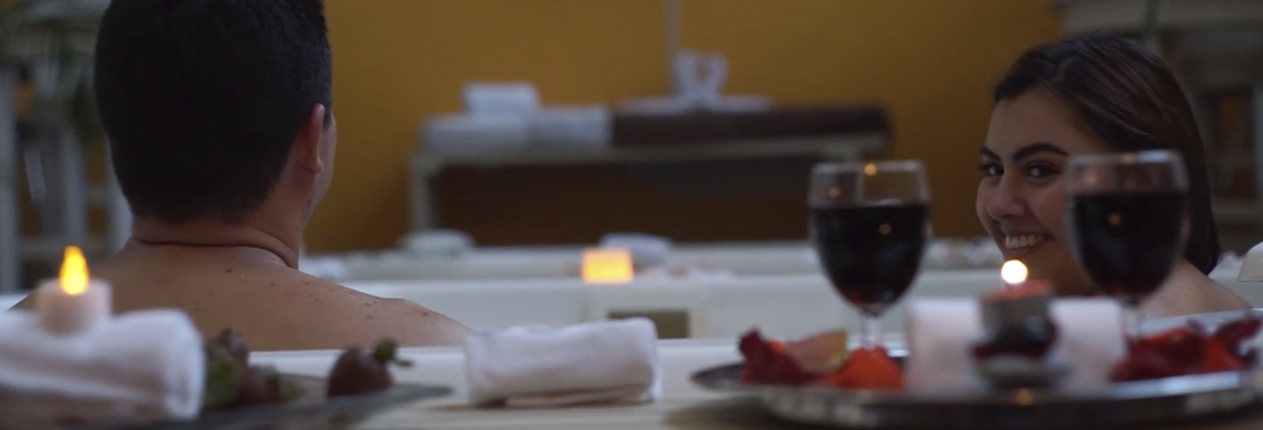
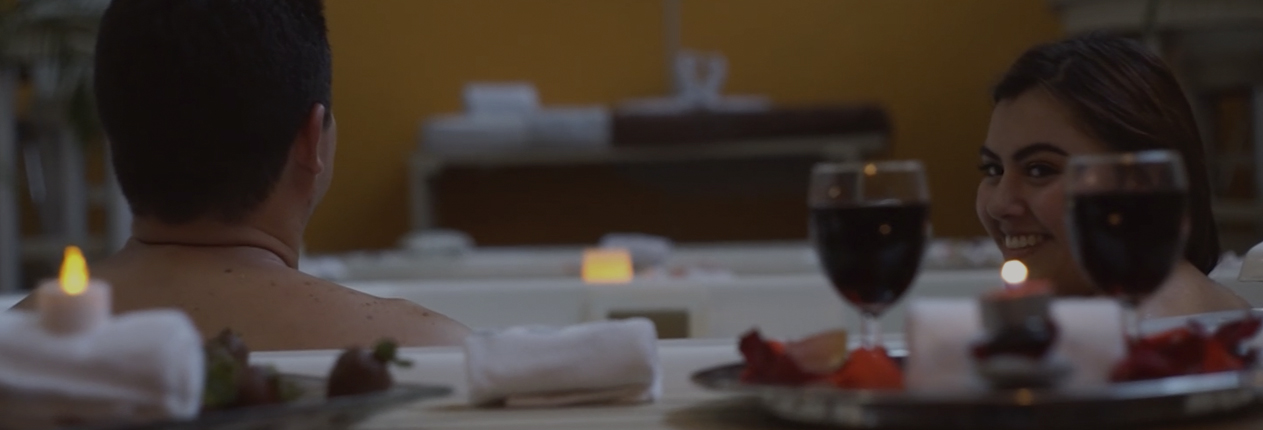
se modificaron los slider

diff --git a/css/settings-dist.css b/css/settings-dist.css
@@ -1,0 +1,4 @@
+.tp-caption.tp-hidden-caption,.tp-hide-revslider{visibility:hidden!important;display:none!important}.tp-caption{z-index:1;white-space:nowrap}.tp-caption-demo .tp-caption{position:relative!important;display:inline-block;margin-bottom:10px;margin-right:20px!important}.tp-caption.whitedivider3px{color:#000000;text-shadow:none;background-color:rgb(255, 255, 255);background-color:rgba(255, 255, 255, 1);text-decoration:none;min-width:408px;min-height:3px;background-position:initial initial;background-repeat:initial initial;border-width:0px;border-color:#000000;border-style:none}.tp-caption.finewide_large_white{color:#ffffff;text-shadow:none;font-size:60px;line-height:60px;font-weight:300;font-family:"Open Sans", sans-serif;background-color:transparent;text-decoration:none;text-transform:uppercase;letter-spacing:8px;border-width:0px;border-color:rgb(0, 0, 0);border-style:none}.tp-caption.whitedivider3px{color:#000000;text-shadow:none;background-color:rgb(255, 255, 255);background-color:rgba(255, 255, 255, 1);text-decoration:none;font-size:0px;line-height:0;min-width:468px;min-height:3px;border-width:0px;border-color:rgb(0, 0, 0);border-style:none}.tp-caption.finewide_medium_white{color:#ffffff;text-shadow:none;font-size:37px;line-height:37px;font-weight:300;font-family:"Open Sans", sans-serif;background-color:transparent;text-decoration:none;text-transform:uppercase;letter-spacing:5px;border-width:0px;border-color:rgb(0, 0, 0);border-style:none}.tp-caption.boldwide_small_white{font-size:25px;line-height:25px;font-weight:800;font-family:"Open Sans", sans-serif;color:rgb(255, 255, 255);text-decoration:none;background-color:transparent;text-shadow:none;text-transform:uppercase;letter-spacing:5px;border-width:0px;border-color:rgb(0, 0, 0);border-style:none}.tp-caption.whitedivider3px_vertical{color:#000000;text-shadow:none;background-color:rgb(255, 255, 255);background-color:rgba(255, 255, 255, 1);text-decoration:none;font-size:0px;line-height:0;min-width:3px;min-height:130px;border-width:0px;border-color:rgb(0, 0, 0);border-style:none}.tp-caption.finewide_small_white{color:#ffffff;text-shadow:none;font-size:25px;line-height:25px;font-weight:300;font-family:"Open Sans", sans-serif;background-color:transparent;text-decoration:none;text-transform:uppercase;letter-spacing:5px;border-width:0px;border-color:rgb(0, 0, 0);border-style:none}.tp-caption.finewide_verysmall_white_mw{font-size:13px;line-height:25px;font-weight:400;font-family:"Open Sans", sans-serif;color:#ffffff;text-decoration:none;background-color:transparent;text-shadow:none;text-transform:uppercase;letter-spacing:5px;max-width:470px;white-space:normal!important;border-width:0px;border-color:rgb(0, 0, 0);border-style:none}.tp-caption.lightgrey_divider{text-decoration:none;background-color:rgb(235, 235, 235);background-color:rgba(235, 235, 235, 1);width:370px;height:3px;background-position:initial initial;background-repeat:initial initial;border-width:0px;border-color:rgb(34, 34, 34);border-style:none}.tp-caption.finewide_large_white{color:#FFF;text-shadow:none;font-size:60px;line-height:60px;font-weight:300;font-family:"Open Sans", sans-serif;background-color:rgba(0, 0, 0, 0);text-decoration:none;text-transform:uppercase;letter-spacing:8px;border-width:0px;border-color:#000;border-style:none}.tp-caption.finewide_medium_white{color:#FFF;text-shadow:none;font-size:34px;line-height:34px;font-weight:300;font-family:"Open Sans", sans-serif;background-color:rgba(0, 0, 0, 0);text-decoration:none;text-transform:uppercase;letter-spacing:5px;border-width:0px;border-color:#000;border-style:none}.tp-caption.huge_red{position:absolute;color:rgb(223,75,107);font-weight:400;font-size:150px;line-height:130px;font-family:'Oswald', sans-serif;margin:0px;border-width:0px;border-style:none;white-space:nowrap;background-color:rgb(45,49,54);padding:0px}.tp-caption.middle_yellow{position:absolute;color:rgb(251,213,114);font-weight:600;font-size:50px;line-height:50px;font-family:'Open Sans', sans-serif;margin:0px;border-width:0px;border-style:none;white-space:nowrap}.tp-caption.huge_thin_yellow{position:absolute;color:rgb(251,213,114);font-weight:300;font-size:90px;line-height:90px;font-family:'Open Sans', sans-serif;margin:0px;letter-spacing:20px;border-width:0px;border-style:none;white-space:nowrap}.tp-caption.big_dark{position:absolute;color:#333;font-weight:700;font-size:70px;line-height:70px;font-family:"Open Sans";margin:0px;border-width:0px;border-style:none;white-space:nowrap}.tp-caption.medium_dark{position:absolute;color:#333;font-weight:300;font-size:40px;line-height:40px;font-family:"Open Sans";margin:0px;letter-spacing:5px;border-width:0px;border-style:none;white-space:nowrap}.tp-caption.medium_grey{position:absolute;color:#fff;text-shadow:0px 2px 5px rgba(0, 0, 0, 0.5);font-weight:700;font-size:20px;line-height:20px;font-family:Arial;padding:2px 4px;margin:0px;border-width:0px;border-style:none;background-color:#888;white-space:nowrap}.tp-caption.small_text{position:absolute;color:#fff;text-shadow:0px 2px 5px rgba(0, 0, 0, 0.5);font-weight:700;font-size:14px;line-height:20px;font-family:Arial;margin:0px;border-width:0px;border-style:none;white-space:nowrap}.tp-caption.medium_text{position:absolute;color:#fff;text-shadow:0px 2px 5px rgba(0, 0, 0, 0.5);font-weight:700;font-size:20px;line-height:20px;font-family:Arial;margin:0px;border-width:0px;border-style:none;white-space:nowrap}.tp-caption.large_bold_white_25{font-size:55px;line-height:65px;font-weight:700;font-family:"Open Sans";color:#fff;text-decoration:none;background-color:transparent;text-align:center;text-shadow:#000 0px 5px 10px;border-width:0px;border-color:rgb(255, 255, 255);border-style:none}.tp-caption.medium_text_shadow{font-size:25px;line-height:25px;font-weight:600;font-family:"Open Sans";color:#fff;text-decoration:none;background-color:transparent;text-align:center;text-shadow:#000 0px 5px 10px;border-width:0px;border-color:rgb(255, 255, 255);border-style:none}.tp-caption.large_text{position:absolute;z-index:999999;color:#fff;text-shadow:0px 2px 5px rgba(0, 0, 0, 0.9);font-weight:bold;font-size:30px;line-height:40px;font-family:'Poppins', sans-serif;margin:0px;border-width:0px;border-style:none;white-space:nowrap}.tp-caption.medium_bold_grey{font-size:30px;line-height:30px;font-weight:800;font-family:"Open Sans";color:rgb(102, 102, 102);text-decoration:none;background-color:transparent;text-shadow:none;margin:0px;padding:1px 4px 0px;border-width:0px;border-color:rgb(255, 214, 88);border-style:none}.tp-caption.very_large_text{position:absolute;color:#fff;text-shadow:0px 2px 5px rgba(0, 0, 0, 0.5);font-weight:700;font-size:60px;line-height:60px;font-family:Arial;margin:0px;border-width:0px;border-style:none;white-space:nowrap;letter-spacing:-2px}.tp-caption.very_big_white{position:absolute;color:#fff;text-shadow:none;font-weight:800;font-size:60px;line-height:60px;font-family:Arial;margin:0px;border-width:0px;border-style:none;white-space:nowrap;padding:0px 4px;padding-top:1px;background-color:#000}.tp-caption.very_big_black{position:absolute;color:#000;text-shadow:none;font-weight:700;font-size:60px;line-height:60px;font-family:Arial;margin:0px;border-width:0px;border-style:none;white-space:nowrap;padding:0px 4px;padding-top:1px;background-color:#fff}.tp-caption.modern_medium_fat{position:absolute;color:#000;text-shadow:none;font-weight:800;font-size:24px;line-height:20px;font-family:"Open Sans", sans-serif;margin:0px;border-width:0px;border-style:none;white-space:nowrap}.tp-caption.modern_medium_fat_white{position:absolute;color:#fff;text-shadow:none;font-weight:800;font-size:24px;line-height:20px;font-family:"Open Sans", sans-serif;margin:0px;border-width:0px;border-style:none;white-space:nowrap}.tp-caption.modern_medium_light{position:absolute;color:#000;text-shadow:none;font-weight:300;font-size:24px;line-height:20px;font-family:"Open Sans", sans-serif;margin:0px;border-width:0px;border-style:none;white-space:nowrap}.tp-caption.modern_big_bluebg{position:absolute;color:#fff;text-shadow:none;font-weight:800;font-size:30px;line-height:36px;font-family:"Open Sans", sans-serif;padding:3px 10px;margin:0px;border-width:0px;border-style:none;background-color:#4e5b6c;letter-spacing:0}.tp-caption.modern_big_redbg{position:absolute;color:#fff;text-shadow:none;font-weight:300;font-size:30px;line-height:36px;font-family:"Open Sans", sans-serif;padding:3px 10px;padding-top:1px;margin:0px;border-width:0px;border-style:none;background-color:#de543e;letter-spacing:0}.tp-caption.modern_small_text_dark{position:absolute;color:#555;text-shadow:none;font-size:14px;line-height:22px;font-family:Arial;margin:0px;border-width:0px;border-style:none;white-space:nowrap}.tp-caption.boxshadow{-moz-box-shadow:0px 0px 20px rgba(0, 0, 0, 0.5);-webkit-box-shadow:0px 0px 20px rgba(0, 0, 0, 0.5);box-shadow:0px 0px 20px rgba(0, 0, 0, 0.5)}.tp-caption.black{color:#000;text-shadow:none}.tp-caption.noshadow{text-shadow:none}.tp-caption a{color:#ff7302;text-shadow:none;-webkit-transition:all 0.2s ease-out;-moz-transition:all 0.2s ease-out;-o-transition:all 0.2s ease-out;-ms-transition:all 0.2s ease-out}.tp-caption a:hover{color:#ffa902}.tp-caption.thinheadline_dark{position:absolute;color:rgba(0,0,0,0.85);text-shadow:none;font-weight:300;font-size:30px;line-height:30px;font-family:"Open Sans";background-color:transparent}.tp-caption.thintext_dark{position:absolute;color:rgba(0,0,0,0.85);text-shadow:none;font-weight:300;font-size:16px;line-height:26px;font-family:"Open Sans";background-color:transparent}.tp-caption.medium_bg_red a{color:#fff;text-decoration:none}.tp-caption.medium_bg_red a:hover{color:#fff;text-decoration:underline}.tp-caption.smoothcircle{font-size:30px;line-height:75px;font-weight:800;font-family:"Open Sans";color:rgb(255, 255, 255);text-decoration:none;background-color:rgb(0, 0, 0);background-color:rgba(0, 0, 0, 0.498039);padding:50px 25px;text-align:center;border-radius:500px 500px 500px 500px;border-width:0px;border-color:rgb(0, 0, 0);border-style:none}.tp-caption.largeblackbg{font-size:50px;line-height:70px;font-weight:300;font-family:"Open Sans";color:rgb(255, 255, 255);text-decoration:none;background-color:rgb(0, 0, 0);padding:0px 20px 5px;text-shadow:none;border-width:0px;border-color:rgb(255, 255, 255);border-style:none}.tp-caption.largepinkbg{position:absolute;color:#fff;text-shadow:none;font-weight:300;font-size:50px;line-height:70px;font-family:"Open Sans";background-color:#db4360;padding:0px 20px;-webkit-border-radius:0px;-moz-border-radius:0px;border-radius:0px}.tp-caption.largewhitebg{position:absolute;color:#000;text-shadow:none;font-weight:300;font-size:50px;line-height:70px;font-family:"Open Sans";background-color:#fff;padding:0px 20px;-webkit-border-radius:0px;-moz-border-radius:0px;border-radius:0px}.tp-caption.largegreenbg{position:absolute;color:#fff;text-shadow:none;font-weight:300;font-size:50px;line-height:70px;font-family:"Open Sans";background-color:#67ae73;padding:0px 20px;-webkit-border-radius:0px;-moz-border-radius:0px;border-radius:0px}.tp-caption.excerpt{font-size:36px;line-height:36px;font-weight:700;font-family:Arial;color:#ffffff;text-decoration:none;background-color:rgba(0, 0, 0, 1);text-shadow:none;margin:0px;letter-spacing:-1.5px;padding:1px 4px 0px 4px;width:150px;white-space:normal!important;height:auto;border-width:0px;border-color:rgb(255, 255, 255);border-style:none}.tp-caption.large_bold_grey{font-size:60px;line-height:60px;font-weight:800;font-family:"Open Sans";color:rgb(102, 102, 102);text-decoration:none;background-color:transparent;text-shadow:none;margin:0px;padding:1px 4px 0px;border-width:0px;border-color:rgb(255, 214, 88);border-style:none}.tp-caption.medium_thin_grey{font-size:34px;line-height:30px;font-weight:300;font-family:"Open Sans";color:rgb(102, 102, 102);text-decoration:none;background-color:transparent;padding:1px 4px 0px;text-shadow:none;margin:0px;border-width:0px;border-color:rgb(255, 214, 88);border-style:none}.tp-caption.small_thin_grey{font-size:18px;line-height:26px;font-weight:300;font-family:"Open Sans";color:rgb(117, 117, 117);text-decoration:none;background-color:transparent;padding:1px 4px 0px;text-shadow:none;margin:0px;border-width:0px;border-color:rgb(255, 214, 88);border-style:none}.tp-caption.lightgrey_divider{text-decoration:none;background-color:rgba(235, 235, 235, 1);width:370px;height:3px;background-position:initial initial;background-repeat:initial initial;border-width:0px;border-color:rgb(34, 34, 34);border-style:none}.tp-caption.large_bold_darkblue{font-size:58px;line-height:60px;font-weight:800;font-family:"Open Sans";color:rgb(52, 73, 94);text-decoration:none;background-color:transparent;border-width:0px;border-color:rgb(255, 214, 88);border-style:none}.tp-caption.medium_bg_darkblue{font-size:20px;line-height:20px;font-weight:800;font-family:"Open Sans";color:red;text-decoration:none;background-color:#d1ae85;padding:10px;border-width:0px;border-color:rgb(255, 214, 88);border-style:none}.tp-caption.medium_bold_red{font-size:24px;line-height:30px;font-weight:800;font-family:"Open Sans";color:rgb(227, 58, 12);text-decoration:none;background-color:transparent;padding:0px;border-width:0px;border-color:rgb(255, 214, 88);border-style:none}.tp-caption.medium_light_red{font-size:21px;line-height:26px;font-weight:300;font-family:"Open Sans";color:rgb(227, 58, 12);text-decoration:none;background-color:transparent;padding:0px;border-width:0px;border-color:rgb(255, 214, 88);border-style:none}.tp-caption.medium_bg_red{font-size:20px;line-height:20px;font-weight:800;font-family:"Open Sans";color:rgb(255, 255, 255);text-decoration:none;background-color:rgb(227, 58, 12);padding:10px;border-width:0px;border-color:rgb(255, 214, 88);border-style:none}.tp-caption.medium_bold_orange{font-size:24px;line-height:30px;font-weight:800;font-family:"Open Sans";color:rgb(243, 156, 18);text-decoration:none;background-color:transparent;border-width:0px;border-color:rgb(255, 214, 88);border-style:none}.tp-caption.medium_bg_orange{font-size:20px;line-height:20px;font-weight:800;font-family:"Open Sans";color:rgb(255, 255, 255);text-decoration:none;background-color:rgb(243, 156, 18);padding:10px;border-width:0px;border-color:rgb(255, 214, 88);border-style:none}.tp-caption.grassfloor{text-decoration:none;background-color:rgba(160, 179, 151, 1);width:4000px;height:150px;border-width:0px;border-color:rgb(34, 34, 34);border-style:none}.tp-caption.large_bold_white{font-size:58px;line-height:60px;font-weight:800;font-family:"Open Sans";color:rgb(255, 255, 255);text-decoration:none;background-color:transparent;border-width:0px;border-color:rgb(255, 214, 88);border-style:none}.tp-caption.medium_light_white{font-size:30px;line-height:36px;font-weight:300;font-family:"Open Sans";color:rgb(255, 255, 255);text-decoration:none;background-color:transparent;padding:0px;border-width:0px;border-color:rgb(255, 214, 88);border-style:none}.tp-caption.mediumlarge_light_white{font-size:34px;line-height:40px;font-weight:300;font-family:"Open Sans";color:rgb(255, 255, 255);text-decoration:none;background-color:transparent;padding:0px;border-width:0px;border-color:rgb(255, 214, 88);border-style:none}.tp-caption.mediumlarge_light_white_center{font-size:34px;line-height:40px;font-weight:300;font-family:"Open Sans";color:#ffffff;text-decoration:none;background-color:transparent;padding:0px 0px 0px 0px;text-align:center;border-width:0px;border-color:rgb(255, 214, 88);border-style:none}.tp-caption.medium_bg_asbestos{font-size:20px;line-height:20px;font-weight:800;font-family:"Open Sans";color:rgb(255, 255, 255);text-decoration:none;background-color:rgb(127, 140, 141);padding:10px;border-width:0px;border-color:rgb(255, 214, 88);border-style:none}.tp-caption.medium_light_black{font-size:30px;line-height:36px;font-weight:300;font-family:"Open Sans";color:rgb(0, 0, 0);text-decoration:none;background-color:transparent;padding:0px;border-width:0px;border-color:rgb(255, 214, 88);border-style:none}.tp-caption.large_bold_black{font-size:58px;line-height:60px;font-weight:800;font-family:"Open Sans";color:rgb(0, 0, 0);text-decoration:none;background-color:transparent;border-width:0px;border-color:rgb(255, 214, 88);border-style:none}.tp-caption.mediumlarge_light_darkblue{font-size:34px;line-height:40px;font-weight:300;font-family:"Open Sans";color:rgb(52, 73, 94);text-decoration:none;background-color:transparent;padding:0px;border-width:0px;border-color:rgb(255, 214, 88);border-style:none}.tp-caption.small_light_white{font-size:17px;line-height:28px;font-weight:300;font-family:"Open Sans";color:rgb(255, 255, 255);text-decoration:none;background-color:transparent;padding:0px;border-width:0px;border-color:rgb(255, 214, 88);border-style:none}.tp-caption.roundedimage{border-width:0px;border-color:rgb(34, 34, 34);border-style:none}.tp-caption.large_bg_black{font-size:40px;line-height:40px;font-weight:800;font-family:"Open Sans";color:rgb(255, 255, 255);text-decoration:none;background-color:rgb(0, 0, 0);padding:10px 20px 15px;border-width:0px;border-color:rgb(255, 214, 88);border-style:none}.tp-caption.mediumwhitebg{font-size:30px;line-height:30px;font-weight:300;font-family:"Open Sans";color:rgb(0, 0, 0);text-decoration:none;background-color:rgb(255, 255, 255);padding:5px 15px 10px;text-shadow:none;border-width:0px;border-color:rgb(0, 0, 0);border-style:none}.tp-caption.medium_bg_orange_new1{font-size:20px;line-height:20px;font-weight:800;font-family:"Open Sans";color:rgb(255, 255, 255);text-decoration:none;background-color:rgb(243, 156, 18);padding:10px;border-width:0px;border-color:rgb(255, 214, 88);border-style:none}.tp-caption.boxshadow{-moz-box-shadow:0px 0px 20px rgba(0, 0, 0, 0.5);-webkit-box-shadow:0px 0px 20px rgba(0, 0, 0, 0.5);box-shadow:0px 0px 20px rgba(0, 0, 0, 0.5)}.tp-caption.black{color:#000;text-shadow:none;font-weight:300;font-size:19px;line-height:19px;font-family:'Open Sans', sans}.tp-caption.noshadow{text-shadow:none}.tp_inner_padding{box-sizing:border-box;-webkit-box-sizing:border-box;-moz-box-sizing:border-box;max-height:none!important}.tp-caption .frontcorner{width:0;height:0;border-left:40px solid transparent;border-right:0px solid transparent;border-top:40px solid #00A8FF;position:absolute;left:-40px;top:0px}.tp-caption .backcorner{width:0;height:0;border-left:0px solid transparent;border-right:40px solid transparent;border-bottom:40px solid #00A8FF;position:absolute;right:0px;top:0px}.tp-caption .frontcornertop{width:0;height:0;border-left:40px solid transparent;border-right:0px solid transparent;border-bottom:40px solid #00A8FF;position:absolute;left:-40px;top:0px}.tp-caption .backcornertop{width:0;height:0;border-left:0px solid transparent;border-right:40px solid transparent;border-top:40px solid #00A8FF;position:absolute;right:0px;top:0px}.tp-simpleresponsive .button{padding:6px 13px 5px;border-radius:3px;-moz-border-radius:3px;-webkit-border-radius:3px;height:30px;cursor:pointer;color:#fff!important;text-shadow:0px 1px 1px rgba(0, 0, 0, 0.6)!important;font-size:15px;line-height:45px!important;background:url(../images/gradient/g30.png) repeat-x top;font-family:arial, sans-serif;font-weight:bold;letter-spacing:-1px}.tp-simpleresponsive .button.big{color:#fff;text-shadow:0px 1px 1px rgba(0, 0, 0, 0.6);font-weight:bold;padding:9px 20px;font-size:19px;line-height:57px!important;background:url(../images/gradient/g40.png) repeat-x top}.tp-simpleresponsive .button.big:hover,.tp-simpleresponsive .button:hover,.tp-simpleresponsive .purchase:hover{background-position:bottom, 15px 11px}@media only screen and (min-width:768px) and (max-width:959px){}@media only screen and (min-width:480px) and (max-width:767px){.tp-simpleresponsive .button{padding:4px 8px 3px;line-height:25px!important;font-size:11px!important;font-weight:normal}.tp-simpleresponsive a.button{-webkit-transition:none;-moz-transition:none;-o-transition:none;-ms-transition:none}}@media only screen and (min-width:0px) and (max-width:479px){.tp-simpleresponsive .button{padding:2px 5px 2px;line-height:20px!important;font-size:10px!important}.tp-simpleresponsive a.button{-webkit-transition:none;-moz-transition:none;-o-transition:none;-ms-transition:none}}.tp-simpleresponsive .button.green,.tp-simpleresponsive .button:hover.green,.tp-simpleresponsive .purchase.green,.tp-simpleresponsive .purchase:hover.green{background-color:#21a117;-webkit-box-shadow:0px 3px 0px 0px #104d0b;-moz-box-shadow:0px 3px 0px 0px #104d0b;box-shadow:0px 3px 0px 0px #104d0b}.tp-simpleresponsive .button.blue,.tp-simpleresponsive .button:hover.blue,.tp-simpleresponsive .purchase.blue,.tp-simpleresponsive .purchase:hover.blue{background-color:#1d78cb;-webkit-box-shadow:0px 3px 0px 0px #0f3e68;-moz-box-shadow:0px 3px 0px 0px #0f3e68;box-shadow:0px 3px 0px 0px #0f3e68}.tp-simpleresponsive .button.red,.tp-simpleresponsive .button:hover.red,.tp-simpleresponsive .purchase.red,.tp-simpleresponsive .purchase:hover.red{background-color:#cb1d1d;-webkit-box-shadow:0px 3px 0px 0px #7c1212;-moz-box-shadow:0px 3px 0px 0px #7c1212;box-shadow:0px 3px 0px 0px #7c1212}.tp-simpleresponsive .button.orange,.tp-simpleresponsive .button:hover.orange,.tp-simpleresponsive .purchase.orange,.tp-simpleresponsive .purchase:hover.orange{background-color:#ff7700;-webkit-box-shadow:0px 3px 0px 0px #a34c00;-moz-box-shadow:0px 3px 0px 0px #a34c00;box-shadow:0px 3px 0px 0px #a34c00}.tp-simpleresponsive .button.darkgrey,.tp-simpleresponsive .button.grey,.tp-simpleresponsive .button:hover.darkgrey,.tp-simpleresponsive .button:hover.grey,.tp-simpleresponsive .purchase.darkgrey,.tp-simpleresponsive .purchase:hover.darkgrey{background-color:#555;-webkit-box-shadow:0px 3px 0px 0px #222;-moz-box-shadow:0px 3px 0px 0px #222;box-shadow:0px 3px 0px 0px #222}.tp-simpleresponsive .button.lightgrey,.tp-simpleresponsive .button:hover.lightgrey,.tp-simpleresponsive .purchase.lightgrey,.tp-simpleresponsive .purchase:hover.lightgrey{background-color:#888;-webkit-box-shadow:0px 3px 0px 0px #555;-moz-box-shadow:0px 3px 0px 0px #555;box-shadow:0px 3px 0px 0px #555}.fullscreen-container{width:100%;position:relative;padding:0}.fullwidthbanner-container{width:100%;position:relative;padding:0;overflow:hidden}.fullwidthbanner-container .fullwidthbanner{width:100%;position:relative}.tp-simpleresponsive .caption,.tp-simpleresponsive .tp-caption{position:absolute;visibility:hidden;-webkit-font-smoothing:antialiased!important}.tp-simpleresponsive img{max-width:none}.noFilterClass{-webkit-filter:none!important;filter:none!important}.tp-bannershadow{position:absolute;margin-left:auto;margin-right:auto;-moz-user-select:none;-khtml-user-select:none;-webkit-user-select:none;-o-user-select:none}.tp-bannershadow.tp-shadow1{background:url(../assets/shadow1.png) no-repeat;background-size:100% 100%;width:890px;height:60px;bottom:-60px}.tp-bannershadow.tp-shadow2{background:url(../assets/shadow2.png) no-repeat;background-size:100% 100%;width:890px;height:60px;bottom:-60px}.tp-bannershadow.tp-shadow3{background:url(../assets/shadow3.png) no-repeat;background-size:100% 100%;width:890px;height:60px;bottom:-60px}.caption.fullscreenvideo{left:0px;top:0px;position:absolute;width:100%;height:100%}.caption.fullscreenvideo iframe,.caption.fullscreenvideo video{width:100%!important;height:100%!important;display:none}.tp-caption.fullscreenvideo{left:0px;top:0px;position:absolute;width:100%;height:100%}.tp-caption.fullscreenvideo iframe,.tp-caption.fullscreenvideo iframe video{width:100%!important;height:100%!important;display:none}.fullcoveredvideo video,.fullscreenvideo video{background:#000}.fullcoveredvideo .tp-poster{background-position:center center;background-size:cover;width:100%;height:100%;top:0px;left:0px}.html5vid.videoisplaying .tp-poster{display:none}.tp-video-play-button{background:#000;background:rgba(0,0,0,0.3);padding:5px;border-radius:5px;-moz-border-radius:5px;-webkit-border-radius:5px;position:absolute;top:50%;left:50%;font-size:40px;color:#FFF;z-index:3;margin-top:-27px;margin-left:-28px;text-align:center;cursor:pointer}.html5vid .tp-revstop{width:6px;height:20px;border-left:5px solid #fff;border-right:5px solid #fff;position:relative;margin:10px 20px}.html5vid .tp-revstop{display:none}.html5vid.videoisplaying .revicon-right-dir{display:none}.html5vid.videoisplaying .tp-revstop{display:block}.html5vid.videoisplaying .tp-video-play-button{display:none}.html5vid:hover .tp-video-play-button{display:block}.fullcoveredvideo .tp-video-play-button{display:none!important}.tp-dottedoverlay{background-repeat:repeat;width:100%;height:100%;position:absolute;top:0px;left:0px;z-index:1}.tp-dottedoverlay.twoxtwo{background:url(../assets/gridtile.png)}.tp-dottedoverlay.twoxtwowhite{background:url(../assets/gridtile_white.png)}.tp-dottedoverlay.threexthree{background:url(../assets/gridtile_3x3.png)}.tp-dottedoverlay.threexthreewhite{background:url(../assets/gridtile_3x3_white.png)}.tpclear{clear:both}.tp-bullets{z-index:1000;position:absolute;-ms-filter:"progid:DXImageTransform.Microsoft.Alpha(Opacity=100)";-moz-opacity:1;-khtml-opacity:1;opacity:1;-webkit-transition:opacity 0.2s ease-out;-moz-transition:opacity 0.2s ease-out;-o-transition:opacity 0.2s ease-out;-ms-transition:opacity 0.2s ease-out;-webkit-transform:translateZ(5px)}.tp-bullets.hidebullets{-ms-filter:"progid:DXImageTransform.Microsoft.Alpha(Opacity=0)";-moz-opacity:0;-khtml-opacity:0;opacity:0}.tp-bullets.simplebullets.navbar{border:1px solid #666;border-bottom:1px solid #444;background:url(../assets/boxed_bgtile.png);height:40px;padding:0px 10px;-webkit-border-radius:5px;-moz-border-radius:5px;border-radius:5px}.tp-bullets.simplebullets.navbar-old{background:url(../assets/navigdots_bgtile.png);height:35px;padding:0px 10px;-webkit-border-radius:5px;-moz-border-radius:5px;border-radius:5px}.tp-bullets.simplebullets.round .bullet{cursor:pointer;position:relative;background:url(../assets/bullet.png) no-Repeat top left;width:20px;height:20px;margin-right:0px;float:left;margin-top:0px;margin-left:3px}.tp-bullets.simplebullets.round .bullet.last{margin-right:3px}.tp-bullets.simplebullets.round-old .bullet{cursor:pointer;position:relative;background:url(../assets/bullets.png) no-Repeat bottom left;width:23px;height:23px;margin-right:0px;float:left;margin-top:0px}.tp-bullets.simplebullets.round-old .bullet.last{margin-right:0px}.tp-bullets.simplebullets.square .bullet{cursor:pointer;position:relative;background:url(../assets/bullets2.png) no-Repeat bottom left;width:19px;height:19px;margin-right:0px;float:left;margin-top:0px}.tp-bullets.simplebullets.square .bullet.last{margin-right:0px}.tp-bullets.simplebullets.square-old .bullet{cursor:pointer;position:relative;background:url(../assets/bullets2.png) no-Repeat bottom left;width:19px;height:19px;margin-right:0px;float:left;margin-top:0px}.tp-bullets.simplebullets.square-old .bullet.last{margin-right:0px}.tp-bullets.simplebullets.navbar .bullet{cursor:pointer;position:relative;background:url(../assets/bullet_boxed.png) no-Repeat top left;width:18px;height:19px;margin-right:5px;float:left;margin-top:0px}.tp-bullets.simplebullets.navbar .bullet.first{margin-left:0px!important}.tp-bullets.simplebullets.navbar .bullet.last{margin-right:0px!important}.tp-bullets.simplebullets.navbar-old .bullet{cursor:pointer;position:relative;background:url(../assets/navigdots.png) no-Repeat bottom left;width:15px;height:15px;margin-left:5px!important;margin-right:5px!important;float:left;margin-top:10px}.tp-bullets.simplebullets.navbar-old .bullet.first{margin-left:0px!important}.tp-bullets.simplebullets.navbar-old .bullet.last{margin-right:0px!important}.tp-bullets.simplebullets .bullet.selected,.tp-bullets.simplebullets .bullet:hover{background-position:top left}.tp-bullets.simplebullets.navbar .bullet.selected,.tp-bullets.simplebullets.navbar .bullet:hover,.tp-bullets.simplebullets.round .bullet.selected,.tp-bullets.simplebullets.round .bullet:hover{background-position:bottom left}.tparrows{-ms-filter:"progid:DXImageTransform.Microsoft.Alpha(Opacity=100)";-moz-opacity:1;-khtml-opacity:1;opacity:1;-webkit-transition:opacity 0.2s ease-out;-moz-transition:opacity 0.2s ease-out;-o-transition:opacity 0.2s ease-out;-ms-transition:opacity 0.2s ease-out;-webkit-transform:translateZ(5000px);-webkit-transform-style:flat;-webkit-backface-visibility:hidden;z-index:600;position:relative}.tparrows.hidearrows{-ms-filter:"progid:DXImageTransform.Microsoft.Alpha(Opacity=0)";-moz-opacity:0;-khtml-opacity:0;opacity:0}.tp-leftarrow{z-index:100;cursor:pointer;position:relative;background:url(../assets/large_left.png) no-Repeat top left;width:40px;height:40px}.tp-rightarrow{z-index:100;cursor:pointer;position:relative;background:url(../assets/large_right.png) no-Repeat top left;width:40px;height:40px}.tp-leftarrow.round{z-index:100;cursor:pointer;position:relative;background:url(../assets/small_left.png) no-Repeat top left;width:19px;height:14px;margin-right:0px;float:left;margin-top:0px}.tp-rightarrow.round{z-index:100;cursor:pointer;position:relative;background:url(../assets/small_right.png) no-Repeat top left;width:19px;height:14px;margin-right:0px;float:left;margin-top:0px}.tp-leftarrow.round-old{z-index:100;cursor:pointer;position:relative;background:url(../assets/arrow_left.png) no-Repeat top left;width:26px;height:26px;margin-right:0px;float:left;margin-top:0px}.tp-rightarrow.round-old{z-index:100;cursor:pointer;position:relative;background:url(../assets/arrow_right.png) no-Repeat top left;width:26px;height:26px;margin-right:0px;float:left;margin-top:0px}.tp-leftarrow.navbar{z-index:100;cursor:pointer;position:relative;background:url(../assets/small_left_boxed.png) no-Repeat top left;width:20px;height:15px;float:left;margin-right:6px;margin-top:12px}.tp-rightarrow.navbar{z-index:100;cursor:pointer;position:relative;background:url(../assets/small_right_boxed.png) no-Repeat top left;width:20px;height:15px;float:left;margin-left:6px;margin-top:12px}.tp-leftarrow.navbar-old{z-index:100;cursor:pointer;position:relative;background:url(../assets/arrowleft.png) no-Repeat top left;width:9px;height:16px;float:left;margin-right:6px;margin-top:10px}.tp-rightarrow.navbar-old{z-index:100;cursor:pointer;position:relative;background:url(../assets/arrowright.png) no-Repeat top left;width:9px;height:16px;float:left;margin-left:6px;margin-top:10px}.tp-leftarrow.navbar-old.thumbswitharrow{margin-right:10px}.tp-rightarrow.navbar-old.thumbswitharrow{margin-left:0px}.tp-leftarrow.square{z-index:100;cursor:pointer;position:relative;background:url(../assets/arrow_left2.png) no-Repeat top left;width:12px;height:17px;float:left;margin-right:0px;margin-top:0px}.tp-rightarrow.square{z-index:100;cursor:pointer;position:relative;background:url(../assets/arrow_right2.png) no-Repeat top left;width:12px;height:17px;float:left;margin-left:0px;margin-top:0px}.tp-leftarrow.square-old{z-index:100;cursor:pointer;position:relative;background:url(../assets/arrow_left2.png) no-Repeat top left;width:12px;height:17px;float:left;margin-right:0px;margin-top:0px}.tp-rightarrow.square-old{z-index:100;cursor:pointer;position:relative;background:url(../assets/arrow_right2.png) no-Repeat top left;width:12px;height:17px;float:left;margin-left:0px;margin-top:0px}.tp-leftarrow.default{z-index:100;cursor:pointer;position:relative;background:url(../assets/large_left.png) no-Repeat 0 0;width:40px;height:40px}.tp-rightarrow.default{z-index:100;cursor:pointer;position:relative;background:url(../assets/large_right.png) no-Repeat 0 0;width:40px;height:40px}.tp-leftarrow:hover,.tp-rightarrow:hover{background-position:bottom left}.tp-bullets.tp-thumbs{z-index:1000;position:absolute;padding:3px;background-color:#fff;width:500px;height:50px;margin-top:-50px}.fullwidthbanner-container .tp-thumbs{padding:3px}.tp-bullets.tp-thumbs .tp-mask{width:500px;height:50px;overflow:hidden;position:relative}.tp-bullets.tp-thumbs .tp-mask .tp-thumbcontainer{width:5000px;position:absolute}.tp-bullets.tp-thumbs .bullet{width:100px;height:50px;cursor:pointer;overflow:hidden;background:none;margin:0;float:left;-ms-filter:"progid:DXImageTransform.Microsoft.Alpha(Opacity=50)";-moz-opacity:0.5;-khtml-opacity:0.5;opacity:0.5;-webkit-transition:all 0.2s ease-out;-moz-transition:all 0.2s ease-out;-o-transition:all 0.2s ease-out;-ms-transition:all 0.2s ease-out}.tp-bullets.tp-thumbs .bullet.selected,.tp-bullets.tp-thumbs .bullet:hover{-ms-filter:"progid:DXImageTransform.Microsoft.Alpha(Opacity=100)";-moz-opacity:1;-khtml-opacity:1;opacity:1}.tp-thumbs img{width:100%}.tp-bannertimer{width:100%;height:10px;background:url(../assets/timer.png);position:absolute;z-index:200;top:0px}.tp-bannertimer.tp-bottom{bottom:0px;height:5px;top:auto}@media only screen and (min-width:0px) and (max-width:479px){.responsive .tp-bullets{display:none}.responsive .tparrows{display:none}}.tp-simpleresponsive img{-moz-user-select:none;-khtml-user-select:none;-webkit-user-select:none;-o-user-select:none}.tp-simpleresponsive a{text-decoration:none}.tp-simpleresponsive ul{list-style:none;padding:0;margin:0}.tp-simpleresponsive>ul>li{list-stye:none;position:absolute;visibility:hidden}.caption.slidelink a div,.tp-caption.slidelink a div{width:3000px;height:1500px;background:url(../assets/coloredbg.png) repeat}.tp-loader{top:50%;left:50%;z-index:10000;position:absolute}.tp-loader.spinner0{width:40px;height:40px;background:url(../assets/loader.gif) no-repeat center center;background-color:#fff;box-shadow:0px 0px 20px 0px rgba(0,0,0,0.15);-webkit-box-shadow:0px 0px 20px 0px rgba(0,0,0,0.15);margin-top:-20px;margin-left:-20px;-webkit-animation:tp-rotateplane 1.2s infinite ease-in-out;animation:tp-rotateplane 1.2s infinite ease-in-out;border-radius:3px;-moz-border-radius:3px;-webkit-border-radius:3px}.tp-loader.spinner1{width:40px;height:40px;background-color:#fff;box-shadow:0px 0px 20px 0px rgba(0,0,0,0.15);-webkit-box-shadow:0px 0px 20px 0px rgba(0,0,0,0.15);margin-top:-20px;margin-left:-20px;-webkit-animation:tp-rotateplane 1.2s infinite ease-in-out;animation:tp-rotateplane 1.2s infinite ease-in-out;border-radius:3px;-moz-border-radius:3px;-webkit-border-radius:3px}.tp-loader.spinner5{background:url(../assets/loader.gif) no-repeat 10px 10px;background-color:#fff;margin:-22px -22px;width:44px;height:44px;border-radius:3px;-moz-border-radius:3px;-webkit-border-radius:3px}@-webkit-keyframes tp-rotateplane{0%{-webkit-transform:perspective(120px)}50%{-webkit-transform:perspective(120px) rotateY(180deg)}to{-webkit-transform:perspective(120px) rotateY(180deg)  rotateX(180deg)}}@keyframes tp-rotateplane{0%{transform:perspective(120px) rotateX(0deg) rotateY(0deg);-webkit-transform:perspective(120px) rotateX(0deg) rotateY(0deg)}50%{transform:perspective(120px) rotateX(-180.1deg) rotateY(0deg);-webkit-transform:perspective(120px) rotateX(-180.1deg) rotateY(0deg)}to{transform:perspective(120px) rotateX(-180deg) rotateY(-179.9deg);-webkit-transform:perspective(120px) rotateX(-180deg) rotateY(-179.9deg)}}.tp-loader.spinner2{width:40px;height:40px;margin-top:-20px;margin-left:-20px;background-color:#ff0000;box-shadow:0px 0px 20px 0px rgba(0,0,0,0.15);-webkit-box-shadow:0px 0px 20px 0px rgba(0,0,0,0.15);border-radius:100%;-webkit-animation:tp-scaleout 1.0s infinite ease-in-out;animation:tp-scaleout 1.0s infinite ease-in-out}@-webkit-keyframes tp-scaleout{0%{-webkit-transform:scale(0.0)}to{-webkit-transform:scale(1.0);opacity:0}}@keyframes tp-scaleout{0%{transform:scale(0.0);-webkit-transform:scale(0.0)}to{transform:scale(1.0);-webkit-transform:scale(1.0);opacity:0}}.tp-loader.spinner3{margin:-9px 0px 0px -35px;width:70px;text-align:center}.tp-loader.spinner3 .bounce1,.tp-loader.spinner3 .bounce2,.tp-loader.spinner3 .bounce3{width:18px;height:18px;background-color:#fff;box-shadow:0px 0px 20px 0px rgba(0,0,0,0.15);-webkit-box-shadow:0px 0px 20px 0px rgba(0,0,0,0.15);border-radius:100%;display:inline-block;-webkit-animation:tp-bouncedelay 1.4s infinite ease-in-out;animation:tp-bouncedelay 1.4s infinite ease-in-out;-webkit-animation-fill-mode:both;animation-fill-mode:both}.tp-loader.spinner3 .bounce1{-webkit-animation-delay:-0.32s;animation-delay:-0.32s}.tp-loader.spinner3 .bounce2{-webkit-animation-delay:-0.16s;animation-delay:-0.16s}@-webkit-keyframes tp-bouncedelay{0%,80%,to{-webkit-transform:scale(0.0)}40%{-webkit-transform:scale(1.0)}}@keyframes tp-bouncedelay{0%,80%,to{transform:scale(0.0);-webkit-transform:scale(0.0)}40%{transform:scale(1.0);-webkit-transform:scale(1.0)}}.tp-loader.spinner4{margin:-20px 0px 0px -20px;width:40px;height:40px;text-align:center;-webkit-animation:tp-rotate 2.0s infinite linear;animation:tp-rotate 2.0s infinite linear}.tp-loader.spinner4 .dot1,.tp-loader.spinner4 .dot2{width:60%;height:60%;display:inline-block;position:absolute;top:0;background-color:#fff;border-radius:100%;-webkit-animation:tp-bounce 2.0s infinite ease-in-out;animation:tp-bounce 2.0s infinite ease-in-out;box-shadow:0px 0px 20px 0px rgba(0,0,0,0.15);-webkit-box-shadow:0px 0px 20px 0px rgba(0,0,0,0.15)}.tp-loader.spinner4 .dot2{top:auto;bottom:0px;-webkit-animation-delay:-1.0s;animation-delay:-1.0s}@-webkit-keyframes tp-rotate{to{-webkit-transform:rotate(360deg)}}@keyframes tp-rotate{to{transform:rotate(360deg);-webkit-transform:rotate(360deg)}}@-webkit-keyframes tp-bounce{0%,to{-webkit-transform:scale(0.0)}50%{-webkit-transform:scale(1.0)}}@keyframes tp-bounce{0%,to{transform:scale(0.0);-webkit-transform:scale(0.0)}50%{transform:scale(1.0);-webkit-transform:scale(1.0)}}.tp-transparentimg{content:"url(../assets/transparent.png)"}.tp-3d{-webkit-transform-style:preserve-3d;-webkit-transform-origin:50% 50%}.tp-caption img{background:transparent;-ms-filter:"progid:DXImageTransform.Microsoft.gradient(startColorstr=#00FFFFFF,endColorstr=#00FFFFFF)";filter:progid:DXImageTransform.Microsoft.gradient(startColorstr=#00FFFFFF,endColorstr=#00FFFFFF);zoom:1}@font-face{font-family:'revicons';src:url('../font/revicons.eot?5510888');src:url('../font/revicons.eot?5510888#iefix') format('embedded-opentype'),
+       url('../font/revicons.woff?5510888') format('woff'),
+       url('../font/revicons.ttf?5510888') format('truetype'),
+       url('../font/revicons.svg?5510888#revicons') format('svg');font-weight:normal;font-style:normal}[class*=" revicon-"]:before,[class^=revicon-]:before{font-family:"revicons";font-style:normal;font-weight:normal;speak:none;display:inline-block;text-decoration:inherit;width:1em;margin-right:.2em;text-align:center;font-variant:normal;text-transform:none;line-height:1em;margin-left:.2em}.revicon-search-1:before{content:'\e802'}.revicon-pencil-1:before{content:'\e831'}.revicon-picture-1:before{content:'\e803'}.revicon-cancel:before{content:'\e80a'}.revicon-info-circled:before{content:'\e80f'}.revicon-trash:before{content:'\e801'}.revicon-left-dir:before{content:'\e817'}.revicon-right-dir:before{content:'\e818'}.revicon-down-open:before{content:'\e83b'}.revicon-left-open:before{content:'\e819'}.revicon-right-open:before{content:'\e81a'}.revicon-angle-left:before{content:'\e820'}.revicon-angle-right:before{content:'\e81d'}.revicon-left-big:before{content:'\e81f'}.revicon-right-big:before{content:'\e81e'}.revicon-magic:before{content:'\e807'}.revicon-picture:before{content:'\e800'}.revicon-export:before{content:'\e80b'}.revicon-cog:before{content:'\e832'}.revicon-login:before{content:'\e833'}.revicon-logout:before{content:'\e834'}.revicon-video:before{content:'\e805'}.revicon-arrow-combo:before{content:'\e827'}.revicon-left-open-1:before{content:'\e82a'}.revicon-right-open-1:before{content:'\e82b'}.revicon-left-open-mini:before{content:'\e822'}.revicon-right-open-mini:before{content:'\e823'}.revicon-left-open-big:before{content:'\e824'}.revicon-right-open-big:before{content:'\e825'}.revicon-left:before{content:'\e836'}.revicon-right:before{content:'\e826'}.revicon-ccw:before{content:'\e808'}.revicon-arrows-ccw:before{content:'\e806'}.revicon-palette:before{content:'\e829'}.revicon-list-add:before{content:'\e80c'}.revicon-doc:before{content:'\e809'}.revicon-left-open-outline:before{content:'\e82e'}.revicon-left-open-2:before{content:'\e82c'}.revicon-right-open-outline:before{content:'\e82f'}.revicon-right-open-2:before{content:'\e82d'}.revicon-equalizer:before{content:'\e83a'}.revicon-layers-alt:before{content:'\e804'}.revicon-popup:before{content:'\e828'}

diff --git a/index.html b/index.html
@@ -145,22 +145,30 @@
 
 <div class="tp-banner-container">
     <div class="tp-banner" >
-        <ul>
+        <ul >  
             <!-- SLIDE  -->
-            <li data-transition="fade" data-slotamount="7" data-masterspeed="1500" >
+            <li  data-transition="fade" data-slotamount="7" data-masterspeed="1500"  >
                 <!-- MAIN IMAGE -->
-                <img src="img/slider/csc-1.jpg"  alt="slidebg1"  data-bgfit="cover" data-bgposition="left top" data-bgrepeat="no-repeat">
+             
+                <img class="opacidad" src="img/slider/csc-1.jpg"  alt="slidebg1"  data-bgfit="cover" data-bgposition="left top" data-bgrepeat="no-repeat">
                 <!-- LAYERS -->
+             
                 <!-- LAYER NR. 1 -->
-                <div class="tp-caption  skewfromrightshort fadeout large_text"
-                    data-x="0"
-                    data-y="124"
-                    data-speed="1000"
-                    data-start="1200"
-                    data-easing="Power4.easeOut">Vive una experiencia CSC
-                </div>
-                ...
-
+              
+                <div class="tp-caption  largeblackbg"
+				data-x="center"
+				data-y="center"
+				data-hoffset="-30"
+				data-voffset="20"
+				data-speed="800"
+				data-start="3300"
+				data-easing="Power4.easeOut"
+				data-endspeed="300"
+				data-endeasing="Power1.easeIn"
+				data-captionhidden="off"
+				style="z-index: 6">Vive una experiencia CSC
+			</div>
+                
             </li>
             <!-- SLIDE  -->
             <li data-transition="zoomout" data-slotamount="7" data-masterspeed="1500" >
@@ -169,13 +177,13 @@
                 <!-- LAYERS -->
                 <!-- LAYER NR. 1 -->
                 <div class="tp-caption  skewfromrightshort fadeout large_text"
-                    data-x="0"
+                    data-x="50"
                     data-y="124"
                     data-speed="1000"
                     data-start="1200"
                     data-easing="Power4.easeOut"> Consigue un equilibrio integral entre mente y cuerpo
                 </div>
-                ...
+                
             </li>
             ....
             <li data-transition="zoomout" data-slotamount="7" data-masterspeed="1500" >
@@ -184,13 +192,40 @@
                 <!-- LAYERS -->
                 <!-- LAYER NR. 1 -->
                 <div class="tp-caption  skewfromrightshort fadeout large_text"
-                    data-x="0"
+                    data-x="50"
                     data-y="124"
                     data-speed="1000"
                     data-start="1200"
-                    data-easing="Power4.easeOut">Disfruta de todos los beneficios que CSC te ofrece<br> de la mano de terapeutas especializadas<br> con servicios exclusivos.
+                    data-easing="Power4.easeOut">Disfruta de todos los beneficios que CSC
                 </div>
-                ...
+                <div class="tp-caption  modern_big_redbg"
+				data-x="center"
+				data-y="center"
+				data-hoffset="-30"
+				data-voffset="20"
+				data-speed="800"
+				data-start="3300"
+				data-easing="Power4.easeOut"
+				data-endspeed="300"
+				data-endeasing="Power1.easeIn"
+				data-captionhidden="off"
+				style="z-index: 6">te ofrece de la mano de terapeutas especializadas
+			    </div>
+             
+                <div class="tp-caption medium_bg_asbestos lft"
+				data-x="100"
+				data-y="264"
+				data-hoffset="-30"
+				data-voffset="20"
+				data-speed="800"
+				data-start="3300"
+				data-easing="Power4.easeOut"
+				data-endspeed="300"
+				data-endeasing="Power1.easeIn"
+				data-captionhidden="off"
+				style="z-index: 6">con servicios exclusivos.
+			</div>
+                
             </li>
             <li data-transition="zoomout" data-slotamount="7" data-masterspeed="1500" >
                 <!-- MAIN IMAGE -->
@@ -198,14 +233,29 @@
                 <!-- LAYERS -->
                 <!-- LAYER NR. 1 -->
                 <div class="tp-caption skewfromrightshort fadeout large_text"
-                    data-x="0"
+                    data-x="50"
                     data-y="124"
                     data-speed="1000"
                     data-start="1200"
-                    data-easing="Power4.easeOut">CSC Wellness Center… <br>Donde necesitas estar
+                    data-easing="Power4.easeOut">CSC Wellness Center… 
                 </div>
-                ...
+                <div class="tp-caption  largeblackbg"
+				data-x="center"
+				data-y="center"
+				data-hoffset="-30"
+				data-voffset="20"
+				data-speed="800"
+				data-start="3300"
+				data-easing="Power4.easeOut"
+				data-endspeed="300"
+				data-endeasing="Power1.easeIn"
+				data-captionhidden="off"
+				style="z-index: 6">Donde necesitas estar
+			    </div>
             </li>
+       
+            </ul>
+            
     </div>
 </div>
 

diff --git a/css/settings.css b/css/settings.css
@@ -346,8 +346,9 @@ border-style:none;
 
 .tp-caption.large_text {
 position:absolute;
+z-index: 999999;
 color:#fff;
-text-shadow:0px 2px 5px rgba(0, 0, 0, 0.5);
+text-shadow:0px 2px 5px rgba(0, 0, 0, 0.9);
 font-weight:bold;
 font-size:30px;
 line-height:40px;
@@ -488,13 +489,13 @@ text-shadow:none;
 font-weight:300;
 font-size:30px;
 line-height:36px;
-font-family:"Open Sans", sans-serif;
+font-family:'Poppins', sans-serif;
 padding:3px 10px;
 padding-top:1px;
 margin:0px;
 border-width:0px;
 border-style:none;
-background-color:#de543e;
+background-color:#b1875a;
 letter-spacing:0;
 }
 
@@ -592,10 +593,10 @@ border-style:none;
 font-size:50px;
 line-height:70px;
 font-weight:300;
-font-family:"Open Sans";
+font-family:'Poppins', sans-serif;
 color:rgb(255, 255, 255);
 text-decoration:none;
-background-color:rgb(0, 0, 0);
+background-color: rgba(250, 158, 71, 0.2);
 padding:0px 20px 5px;
 text-shadow:none;
 border-width:0px;
@@ -894,10 +895,10 @@ border-style:none;
 font-size:20px;
 line-height:20px;
 font-weight:800;
-font-family:"Open Sans";
+font-family:'Poppins', sans-serif;
 color:rgb(255, 255, 255);
 text-decoration:none;
-background-color:rgb(127, 140, 141);
+background-color:rgba(169, 111, 55, 0.8);
 padding:10px;
 border-width:0px;
 border-color:rgb(255, 214, 88);

diff --git a/sass/_conocenos.scss b/sass/_conocenos.scss
@@ -214,6 +214,16 @@ video
     {
         margin-top:50px;
     }
+
+    .opacidad
+    {
+    background-color: rgba(0, 0, 0, 0.5); /* rgbA */
+    width:100%;
+    height:100%;
+    position: absolute;
+    opacity: 0.1;
+    z-index: 99;
+}
 /*-------------------------
         fin ventanas modal
 ---------------------------*/

diff --git a/css/app.css b/css/app.css
@@ -278,6 +278,15 @@ video {
 .tp-banner-container {
   margin-top: 50px; }
 
+.opacidad {
+  background-color: rgba(0, 0, 0, 0.5);
+  /* rgbA */
+  width: 100%;
+  height: 100%;
+  position: absolute;
+  opacity: 0.1;
+  z-index: 99; }
+
 /*-------------------------
         fin ventanas modal
 ---------------------------*/
